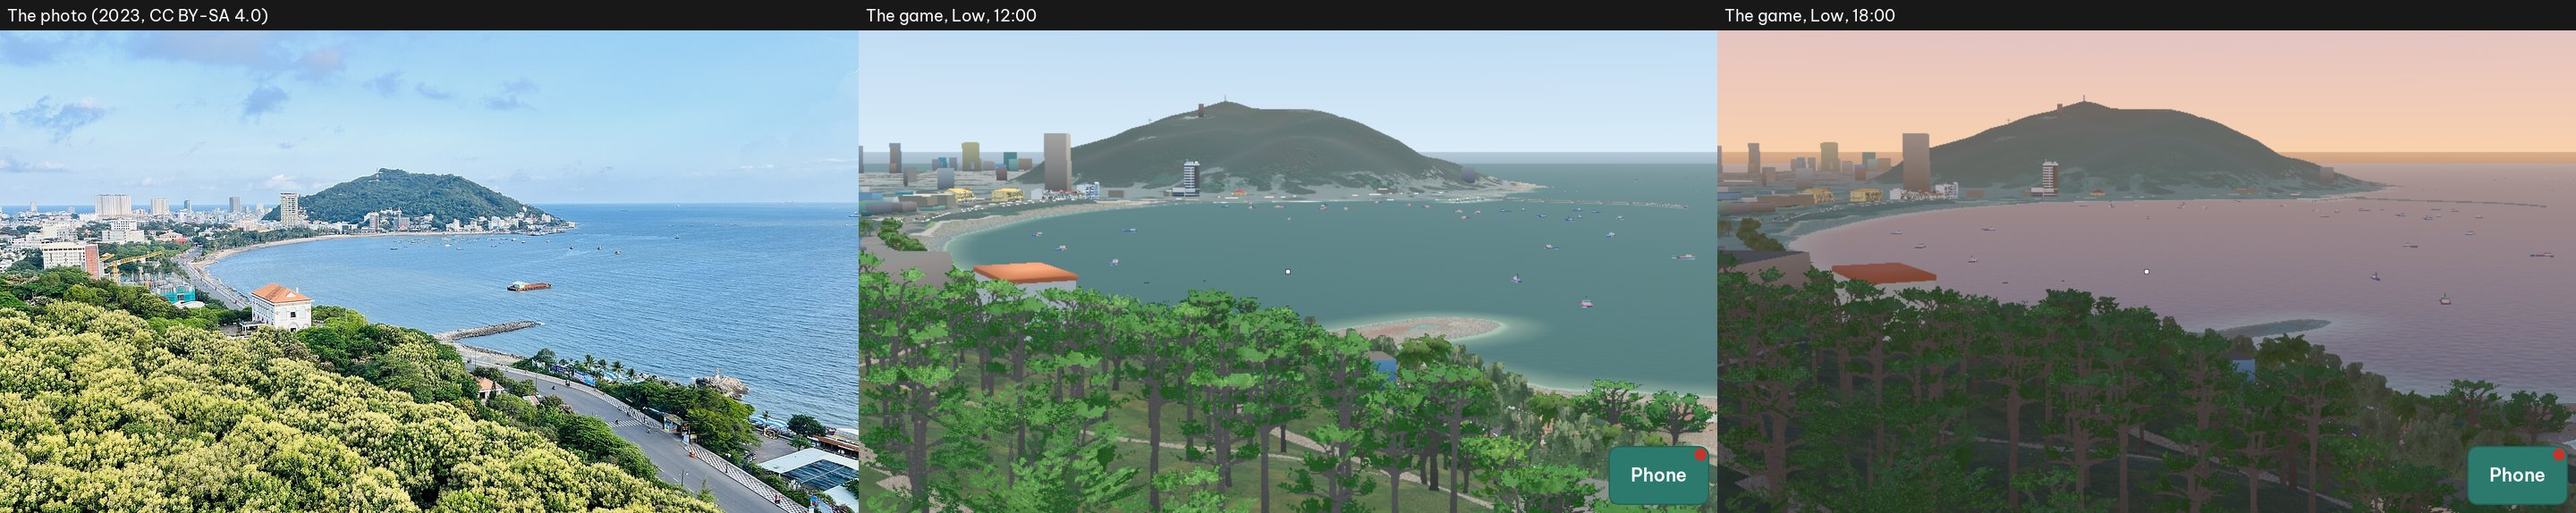
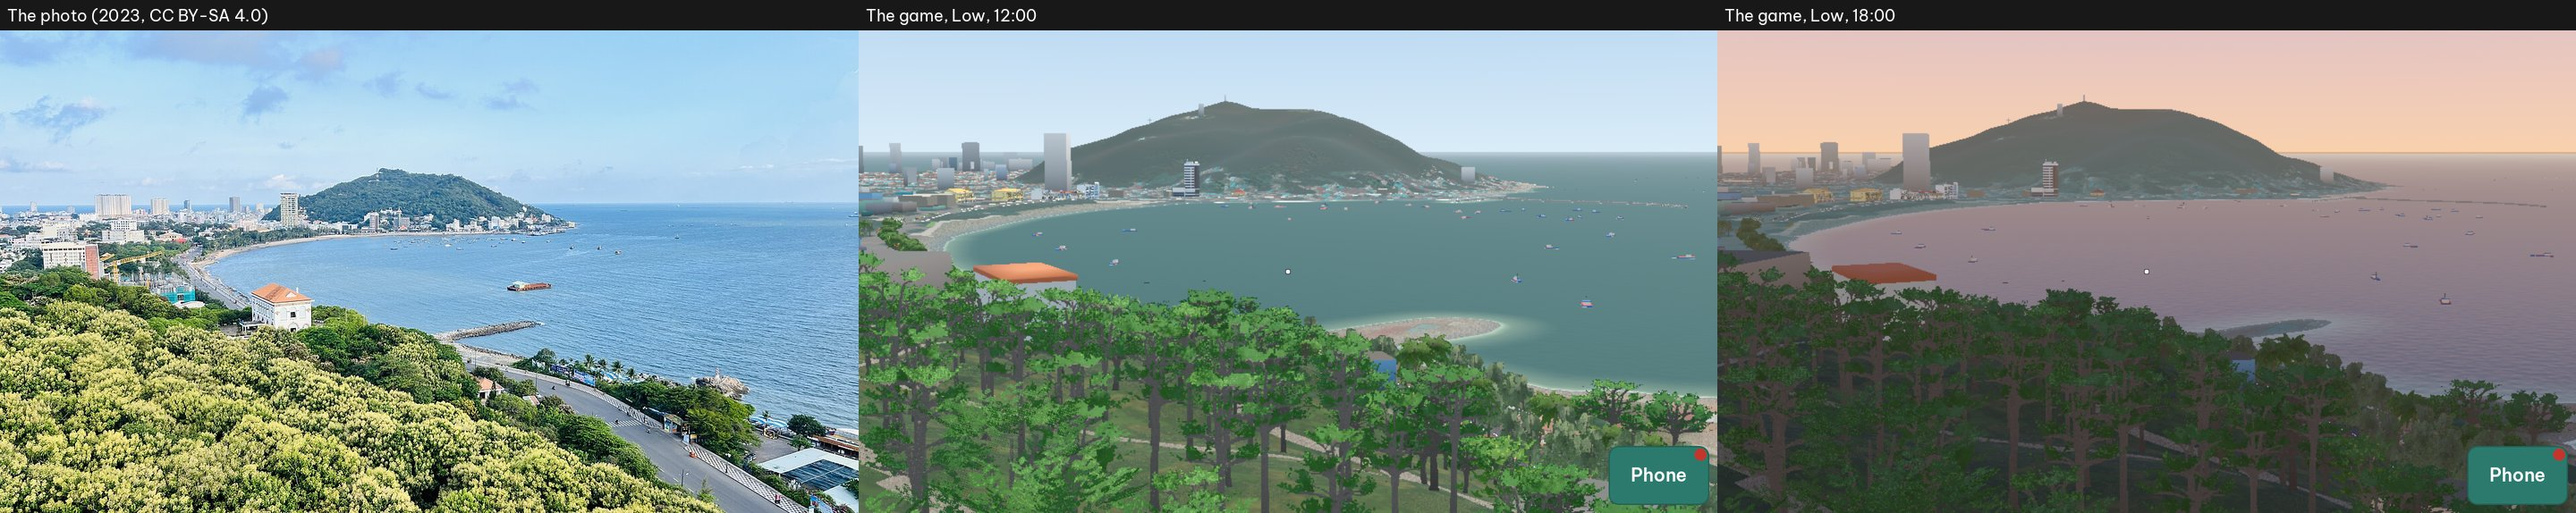
Write the corrections of audit 5 in plan 0009, make the views of PT-68 again, and show the refused levels of the test of R4 in the log
A print of a test does not show in the log of pytest -q, so the test of
R4 writes each level that the factory refuses for memory, and the count
of the files that it compares, as warnings of pytest. Plan 0009: the
builder notes of audit 5 (the table of the street fronts, the far town,
the towers, the mainland, PT-69, the test of R4, the cart), the open
value of PT-33 (Q11), and the status line.

diff --git a/tools/world/tests/test_world.py b/tools/world/tests/test_world.py
@@ -7,6 +7,7 @@ import shutil
 import subprocess
 import sys
 import urllib.request
+import warnings
 from pathlib import Path
 
 import pytest
@@ -95,17 +96,21 @@ def test_the_two_sources_give_the_same_bytes(tmp_path):
     # When World gives the files of its catalog with no build, the test compares
     # all the levels again.
     compared = 0
+    all_refused = 0
     for model in ORDERS:
         refused: list[tuple[str, str, str]] = []
         from_factory = fetch.factory_files(model, refused=refused)
         from_clone = fetch.checkout_files(model, clone, None)
         for model_id, name, message in refused:
-            print(f"R4: the factory refused {name} of {model['order']['options']['name']} for memory: {message}")
+            # A warning shows in the log of "pytest -q" (a print does not).
+            warnings.warn(f"R4: the factory refused {name} of {model['order']['options']['name']} for memory: {message}")
+            all_refused += 1
         assert set(from_factory) <= set(from_clone)
         assert set(from_clone) - set(from_factory) == {name for _id, name, _m in refused}
         for name in from_factory:
             assert from_factory[name] == from_clone[name], f"{model['order']['options']['name']}: {name} is not the same"
             compared += 1
+    warnings.warn(f"R4: {compared} files of the factory are the same as the files of the clone; the factory refused {all_refused} for memory")
     assert compared > 0, "the factory gave no file"
 
 

diff --git a/docs/plans/0009-houses-on-the-lots.md b/docs/plans/0009-houses-on-the-lots.md
@@ -2,7 +2,7 @@
 
 | Field | Value |
 |---|---|
-| Status | In progress: phases 1a, 1b, and 2 are done (2026-11-21), and the corrections of audit 4 (2026-11-22); phase 3 waits for my look at the views of PT-68 (`docs/town/`) and the five shots (`docs/showcase/`). Open: two values of D-0005-09 in PT-33 run 2 (the builder notes of audit 4). Approved (2026-11-16). Changed (2026-11-18): all the sources of the data (section 3, "The sources"; D9 to D11, R1, R5 to R5e, Q1, Q5 to Q7). Changed (2026-11-21): the whole town first, not the area of plan 0026 first (section 5). |
+| Status | In progress: phases 1a, 1b, and 2 are done (2026-11-21), and the corrections of audits 4 and 5 (2026-11-22); phase 3 waits for my look at the views of PT-68 (`docs/town/`) and the five shots (`docs/showcase/`). Open: the value of the land of `nui_nho_north` in PT-33 run 2 (Q11, the builder notes of audit 5). Approved (2026-11-16). Changed (2026-11-18): all the sources of the data (section 3, "The sources"; D9 to D11, R1, R5 to R5e, Q1, Q5 to Q7). Changed (2026-11-21): the whole town first, not the area of plan 0026 first (section 5). |
 | Branch | `feat/0009-houses-on-the-lots` |
 | Depends on | 0004 (the house kit and the palette), 0005 (the roads and the ground), 0008 (the known places stay as they are), 0023 (the houses come from World, D8). |
 | Used by | 0010 (the bus ride), 0011 to 0015 (the shops and the streets), 0021 (Tết), 0022 (the garden). |
@@ -199,6 +199,7 @@ Each source of the data of this plan, also the ones that the plan does not use, 
   - **Answered (2026-11-18), later:** the photos are good. I made the account, and the secret `MAPILLARY_TOKEN` of this repository has the client token (R5e).
 - **Q7.** When I am in Vũng Tàu, which things do I scan with a phone? Only things that did not change since 2019 are useful: for example a gate, a shrine, a stair, or a part of the sea wall.
   - **Partly answered (2026-11-18):** I asked some people to take photos later. It is not sure, so no step of this plan waits for them.
+- **Q11 (open, report 0009, section 9.5a).** PT-33 run 2, `nui_nho_north`: the mean value of the land is 0.59 (the limit 0.40 to 0.55). The trees of the hills are 0.49 (518 points), the town 0.61 (2 330), the rest 0.60 (63); with the trees at the value of the canopy of the photo (0.16, the lower third of `town_nui_nho_top_2018.jpg`) the land is 0.53. So it is out only because of the trees of the hills: PT-33 writes the value as open and does not fail until the later pass of the look. The part of the frame that makes it: `nui_nho_north_parts.png` of the run (the trees, the town, the rest).
 
 ## Builder notes
 
@@ -246,3 +247,26 @@ Each source of the data of this plan, also the ones that the plan does not use, 
   - **PT-33 (open, the limits stay).** Run 2: from the top of Núi Lớn (`nui_lon_south_east`) 39 % of the town has a saturation over 0.2 (at least 40 %), and from Núi Nhỏ to the north (`nui_nho_north`) the mean value of the land is 0.58 (0.40 to 0.55). Runs 1, 3, 4, and 5 pass, and the Hải Đăng road is 0.41 now (0.38 after phase 1b). The causes: past the range of the boxes (1 500 m on Low; the town of the view from Núi Lớn is farther) the ground shader draws the town with the mean color of the boxes (D-0009-14, `#72726D`: the mean of the paints with the dark of the openings of D-0009-15, a saturation of 0.04), not the pattern of colored roofs of before; and the ground of the town is the bare earth with no bumps of the buildings (phase 1b), so the far town has no shade of the bumps, and the view to the north is lighter. The town of PT-68 has the value of its photo (0.59, the photo 0.61). So the limits of D-0005-09 (made with the old far town) and the photo of D-0009-15 do not agree there. I did not change a limit.
   - **PT-69.** Low: 189 to 257 draw calls, 113 930 to 137 285 triangles, 738 MB to 745 MB of video memory; High: 327 to 388 draw calls, 396 246 to 871 188 triangles, 1 892 MB to 1 901 MB. The tall boxes cost 29 meshes and 2 434 triangles on each preset. The limits (Q10: 600 and 2 000 draw calls; R10: 300 000 triangles on Low) hold.
   - **The views and the shots.** The views of PT-68 and their photos are in `docs/town/`; the five shots of plan 0026 are in `docs/showcase/`. The phase stops here: you look at the views before phase 3.
+
+- **The corrections of audit 5 (report 0009, section 9, and my answers Q11 to Q14 of section 9.5a, 2026-11-22).** For each defect, the test that finds it came first, and it failed before the correction.
+  - **D-0009-22 (the street fronts).** `tools/geo/buildings.py raster`: each group of cells of the 2.5D raster of 2019 with a building and no outline (D-0009-04) that touches a street (at most 8 m from its edge) is a box, with the road surfaces cut out (else a box stood on the road). The store keeps only the part of each cell, so the part reads the heights again from the four tiles of 2019 (the workspace reached them; the workflow "Buildings and lidar" runs the part after the build): the median of the cells with a presence over 0.5. 1 304 of 2 714 groups touch a street: 1 304 boxes, 58.0 ha, median 7.0 m, 90 % under 11.5 m (`data/geo/raw/buildings/raster_2019.json`, `raster.md`). Their source is `raster`, their ids `raster-ROW-COLUMN`: phase 3 knows them. The street fronts (each 5 m, on each side, a building from 2 m to 14 m past the edge of the road; `buildings_report.md`):
+
+    | Street | Points | Before: a box | Before: the raster only | Before: neither | After: a box | After: the raster only | After: neither |
+    |---|---|---|---|---|---|---|---|
+    | Ba Cu | 618 | 62 % | 15 % | 23 % | 66 % | 11 % | 23 % |
+    | Lê Lai | 346 | 60 % | 18 % | 22 % | 67 % | 12 % | 22 % |
+    | Xô Viết Nghệ Tĩnh | 600 | 56 % | 15 % | 29 % | 62 % | 9 % | 29 % |
+    | Phan Chu Trinh | 688 | 52 % | 16 % | 32 % | 53 % | 14 % | 32 % |
+    | Trương Công Định | 1 730 | 47 % | 21 % | 32 % | 54 % | 14 % | 32 % |
+    | Nam Kỳ Khởi Nghĩa | 458 | 47 % | 14 % | 40 % | 52 % | 9 % | 40 % |
+    | Bình Giã | 614 | 42 % | 23 % | 35 % | 55 % | 10 % | 35 % |
+
+    "The raster only" after the correction is the raster of 2019 at the front where no box stands: a group that does not touch a street within 8 m, or a part of a group that the cut of the road took. "Neither" does not change: the raster has no building there (Q12 is for these fronts in phase 3). PT-68 checks that the bus view shows the shops at the street: 2 boxes nearer than 40 m show at 12:00 and at 18:00 (at least 2), and 7 boxes in all (the boxes at the street hide the far boxes: `min_boxes` is now 6). `TownField.boxes_seen()` tests three points on each face of a box, 2.5 m out and 2 m over its base: a box at the street showed only its face, and its middle and its ends were behind its neighbors (the count was 1).
+  - **D-0009-23 (the far town).** Past the range of the boxes the ground shader draws the pattern of roofs and shade of D-0005-09 again, scaled so that its mean is the mean color of the boxes (`town_box_color`), with the blend of 200 m. PT-68 `nui_nho_top`: the mean value 250 m to 50 m in front of the end of the range is 0.63, past it 0.64 (at most 0.06 apart). PT-33 run 2: from Núi Lớn (`nui_lon_south_east`) 47 % of the town has a saturation over 0.2 (at least 40 %; 39 % before); `nui_nho_north` is Q11 (section 8). The limits of PT-33 did not change.
+  - **D-0009-24 (the towers).** `towers` in `data/world/palette.json`: white `#D8D9D6`, cream `#EBE4DD`, grey `#B1AFAB`, grey-blue `#ADBACA`, glass `#6B838D`, from the lit fronts of the towers of the photo of `nui_nho_top` (the weights 0.3, 0.3, 0.2, 0.1, 0.1). Each building of 25 m or more takes one by its id as its far color. PT-68 compares the towers of `nui_nho_top` nearer than 3 km (32 in the frame, 4 of glass) with six towers of the photo: the saturation 0.11 against 0.05 (at most 0.08 apart), the value 0.76 against 0.78 (at most 0.15 apart). The limits are builder values. Tests: `tools/geo/tests/test_town.py`.
+  - **Q14 (the mainland on the horizon).** `tools/geo/fetch.py --only mainland`: Copernicus N10E106 and N10E107, 32 km around the middle of the box, the mean of 3 × 3 pixels (`data/geo/raw/mainland.tif`). `geodata/mainland.py`: a grid of 400 m out of the box of the play area, with the curve of the earth (refraction 0.13): 7 286 cells, 14 572 triangles, the highest 494.1 m. `MainlandFar` is one mesh with the colors of the low land and the hills, under the haze of the hour, with no shadow; the far plane of the camera is 40 km, and the sea is 80 km wide. PT-68: from `nui_nho_top` the hills of Long Hải (21.6 km, the top 265 m after the curve) show on the horizon (a contrast of 0.19 with the sky at 12:00, 0.16 at 18:00); from `hai_dang_road` Núi Dinh (25.2 km, 411 m) shows (0.18 and 0.16; at least 0.03). Tests: `tools/geo/tests/test_mainland.py`.
+  - **PT-69 with the mainland.** Low: 228 to 258 draw calls, 134 466 to 167 204 triangles, 740 MB to 747 MB of video memory; High: 328 to 428 draw calls, 413 998 to 904 723 triangles, 1 894 MB to 1 903 MB. The mainland costs 1 mesh and 14 572 triangles on each preset; the tall boxes 29 meshes and 2 590 triangles. The limits (Q10, R10) hold.
+  - **D-0009-25 and Q13 (the job "Models of World").** The test of R4 compares only the levels that the factory gives. A level that the factory refuses for memory (HTTP 422) goes in the log with its model and the message, and the test does not fail for it; any other error fails it (`fetch.factory_files(..., refused=)`, two unit tests). Each refused level and the count of the files that it compared are warnings of pytest, so they show in the log of `pytest -q` (a print did not show there). In the workspace: 15 files are the same, and the factory refused none. When World gives the files of its catalog with no build, the test compares all levels again. The lock of World did not change.
+  - **D-0009-26 (the cart of the test hẻm).** In soak run 2, the cart `mia` came at its hour (10:00) to the place where the player stood, and the player was in its solid. Now a cart waits while the player stands in its place (`Hem.player_at`, `_stands_in()`: the box shapes of the cart, grown by the radius of the player), and comes when the player goes. The last run of the soak walks to the place before 10:00, waits to 10:00 (no overlap, no cart), walks away, and checks at 10:01 that the cart is there with no overlap. Without the correction the step failed.
+  - **Q12.** The rule is in section 5, phase 3. Nothing is built for it now.
+  - **The views and the shots.** The views of PT-68 and their photos are in `docs/town/`; the five shots of plan 0026 are in `docs/showcase/`. The work stops here: you look at the views before phase 3.
